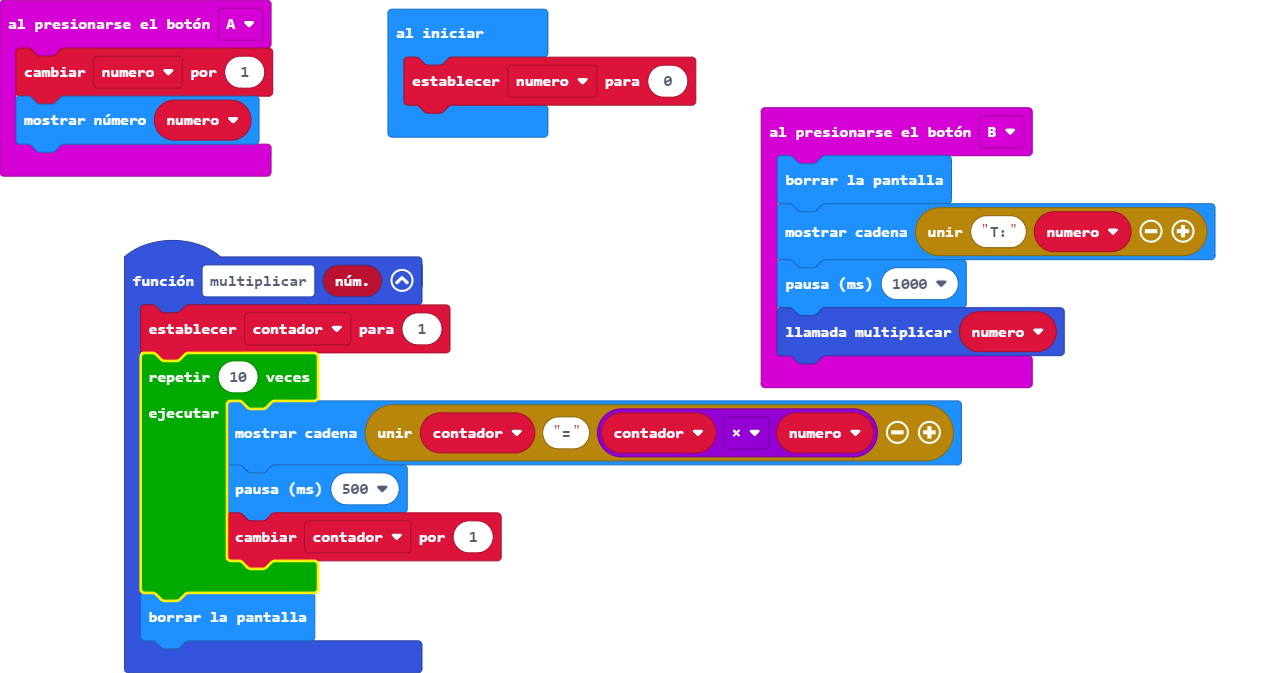
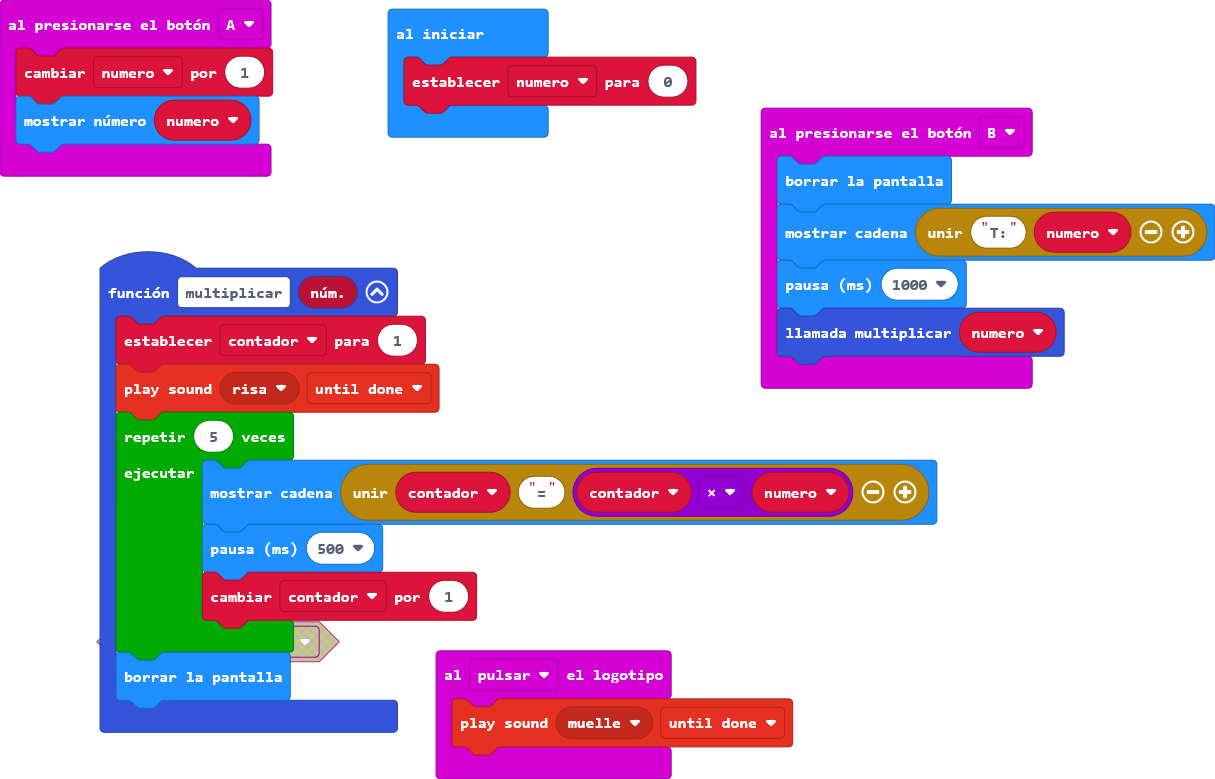
Actualizar pxt.json, main.blocks, main.ts

diff --git a/main.ts b/main.ts
@@ -1,3 +1,6 @@
+input.onLogoEvent(TouchButtonEvent.Pressed, function () {
+    music.playSoundEffect(music.builtinSoundEffect(soundExpression.spring), SoundExpressionPlayMode.UntilDone)
+})
 input.onButtonPressed(Button.A, function () {
     numero += 1
     basic.showNumber(numero)
@@ -10,7 +13,8 @@ input.onButtonPressed(Button.B, function () {
 })
 function multiplicar (núm: number) {
     contador = 1
-    for (let index = 0; index < 10; index++) {
+    music.playSoundEffect(music.builtinSoundEffect(soundExpression.giggle), SoundExpressionPlayMode.UntilDone)
+    for (let index = 0; index < 5; index++) {
         basic.showString("" + contador + "=" + contador * numero)
         basic.pause(500)
         contador += 1
